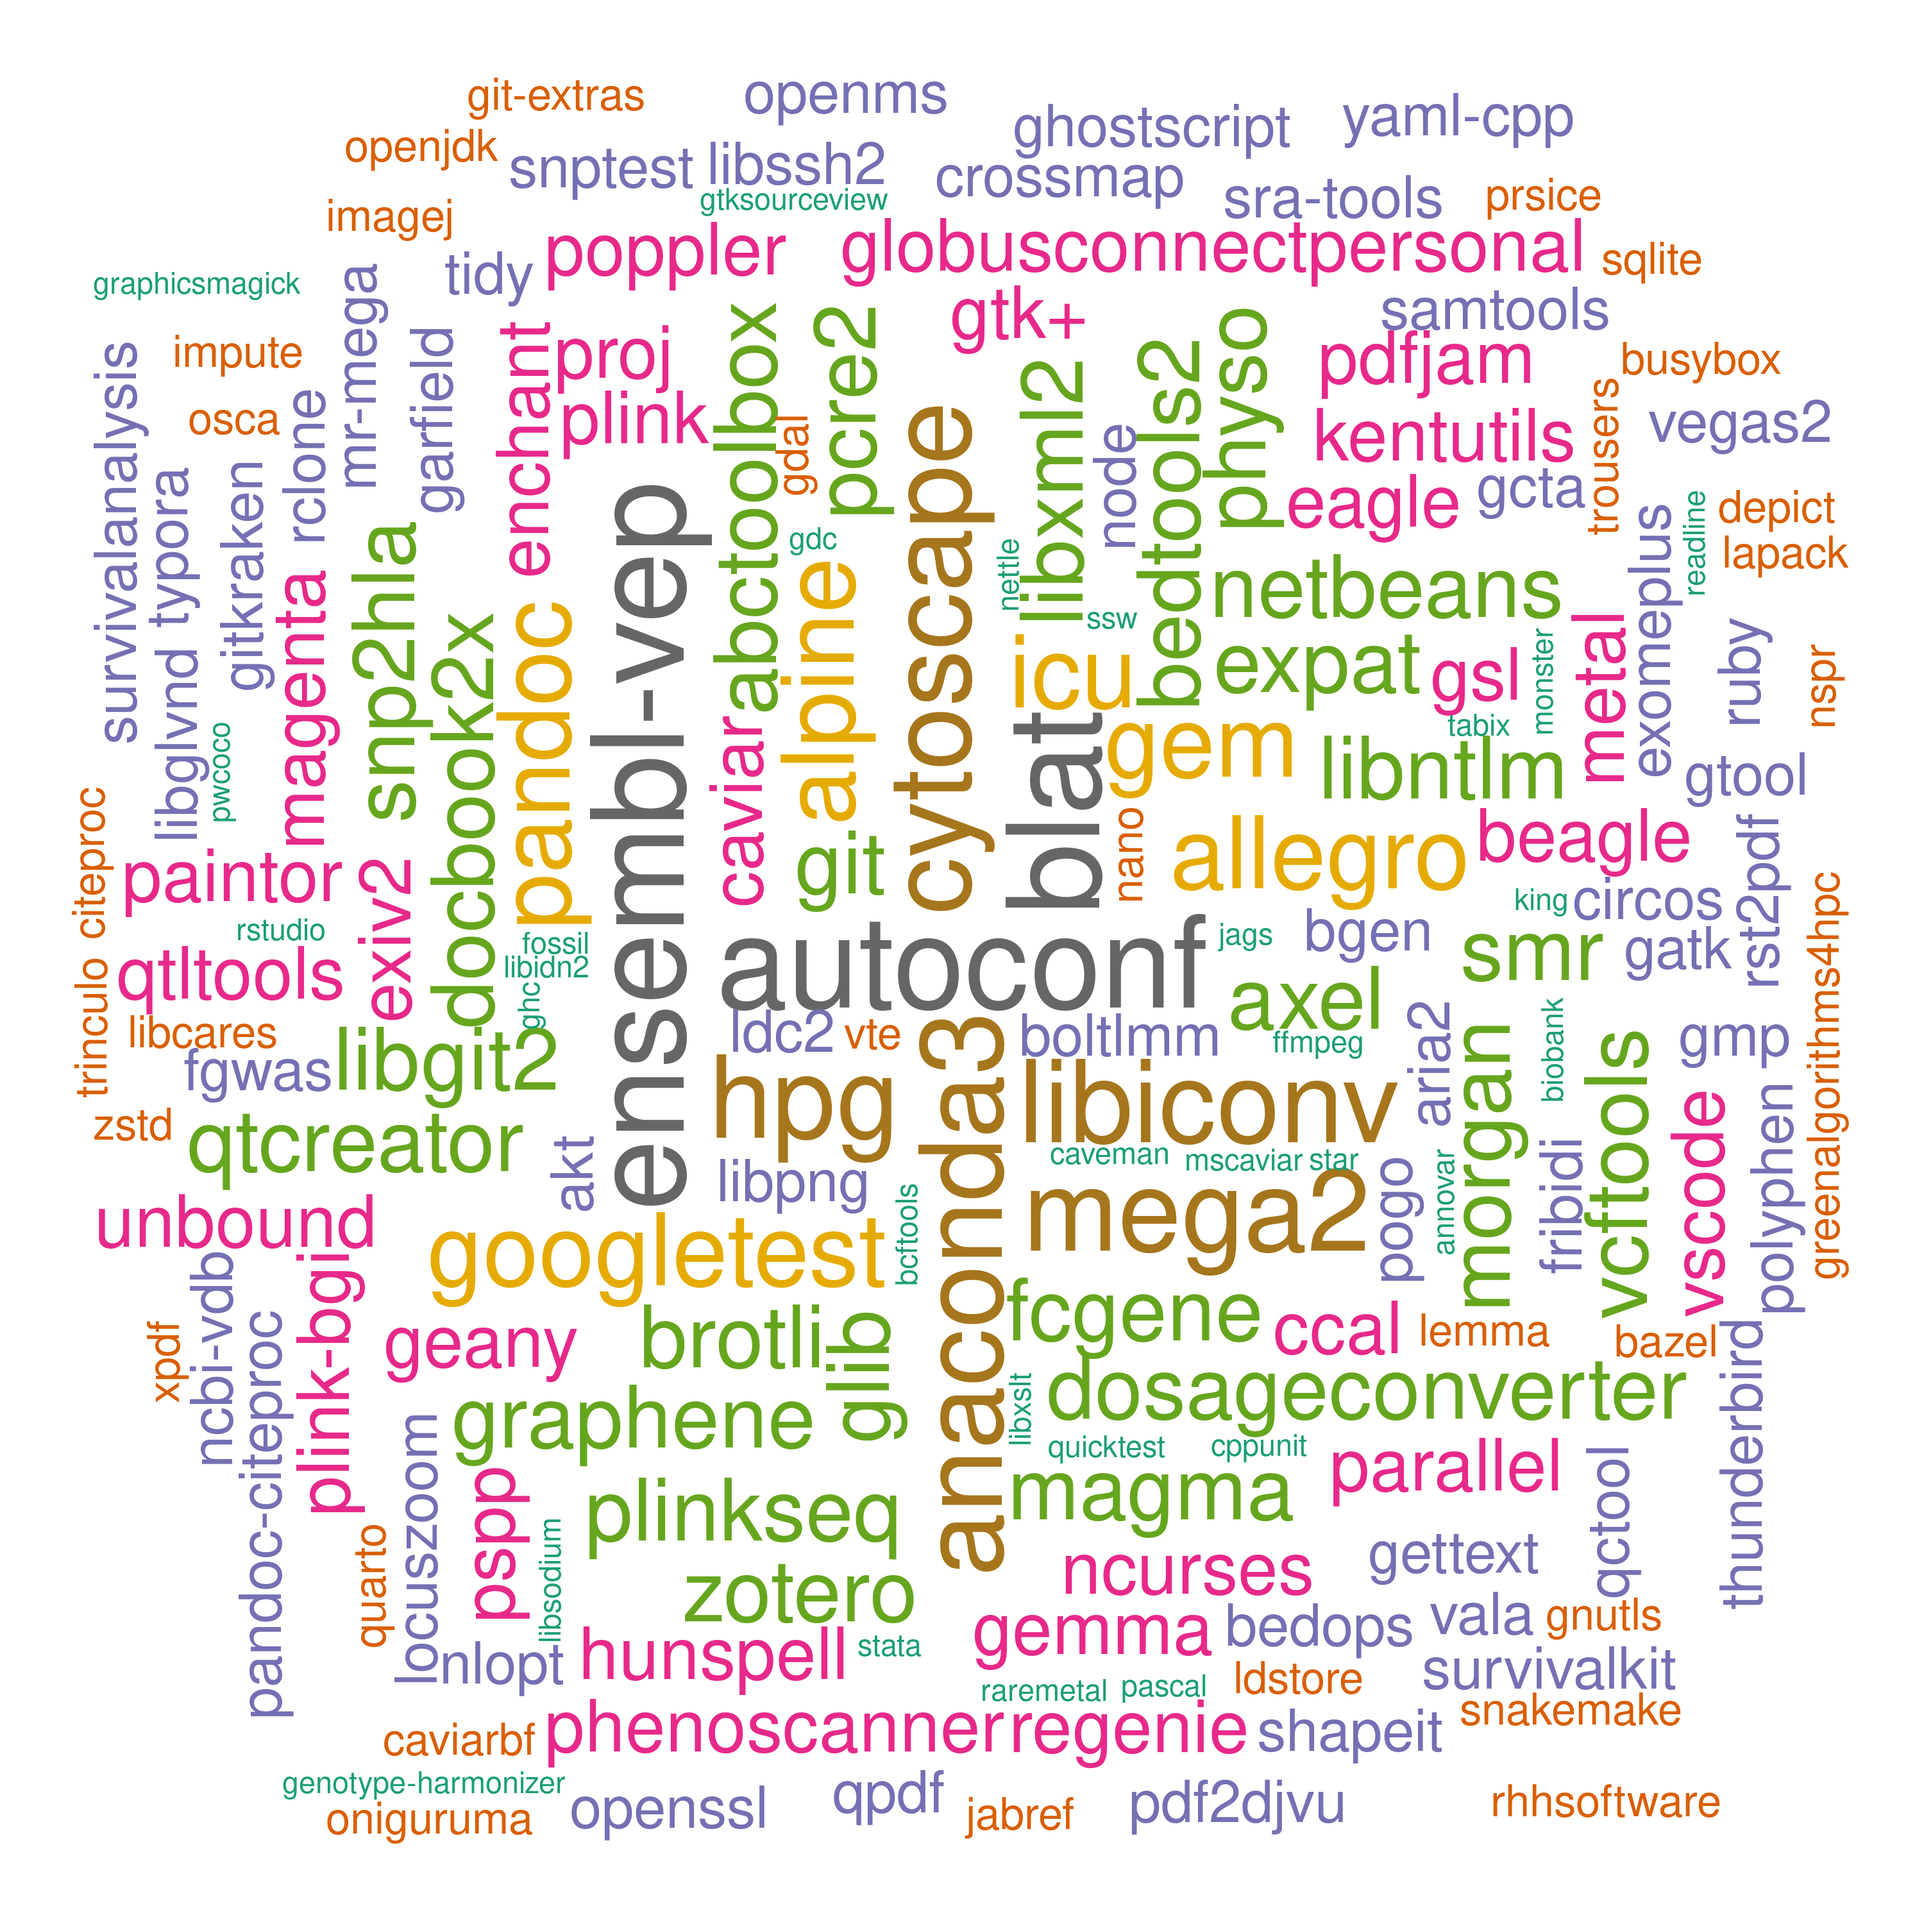
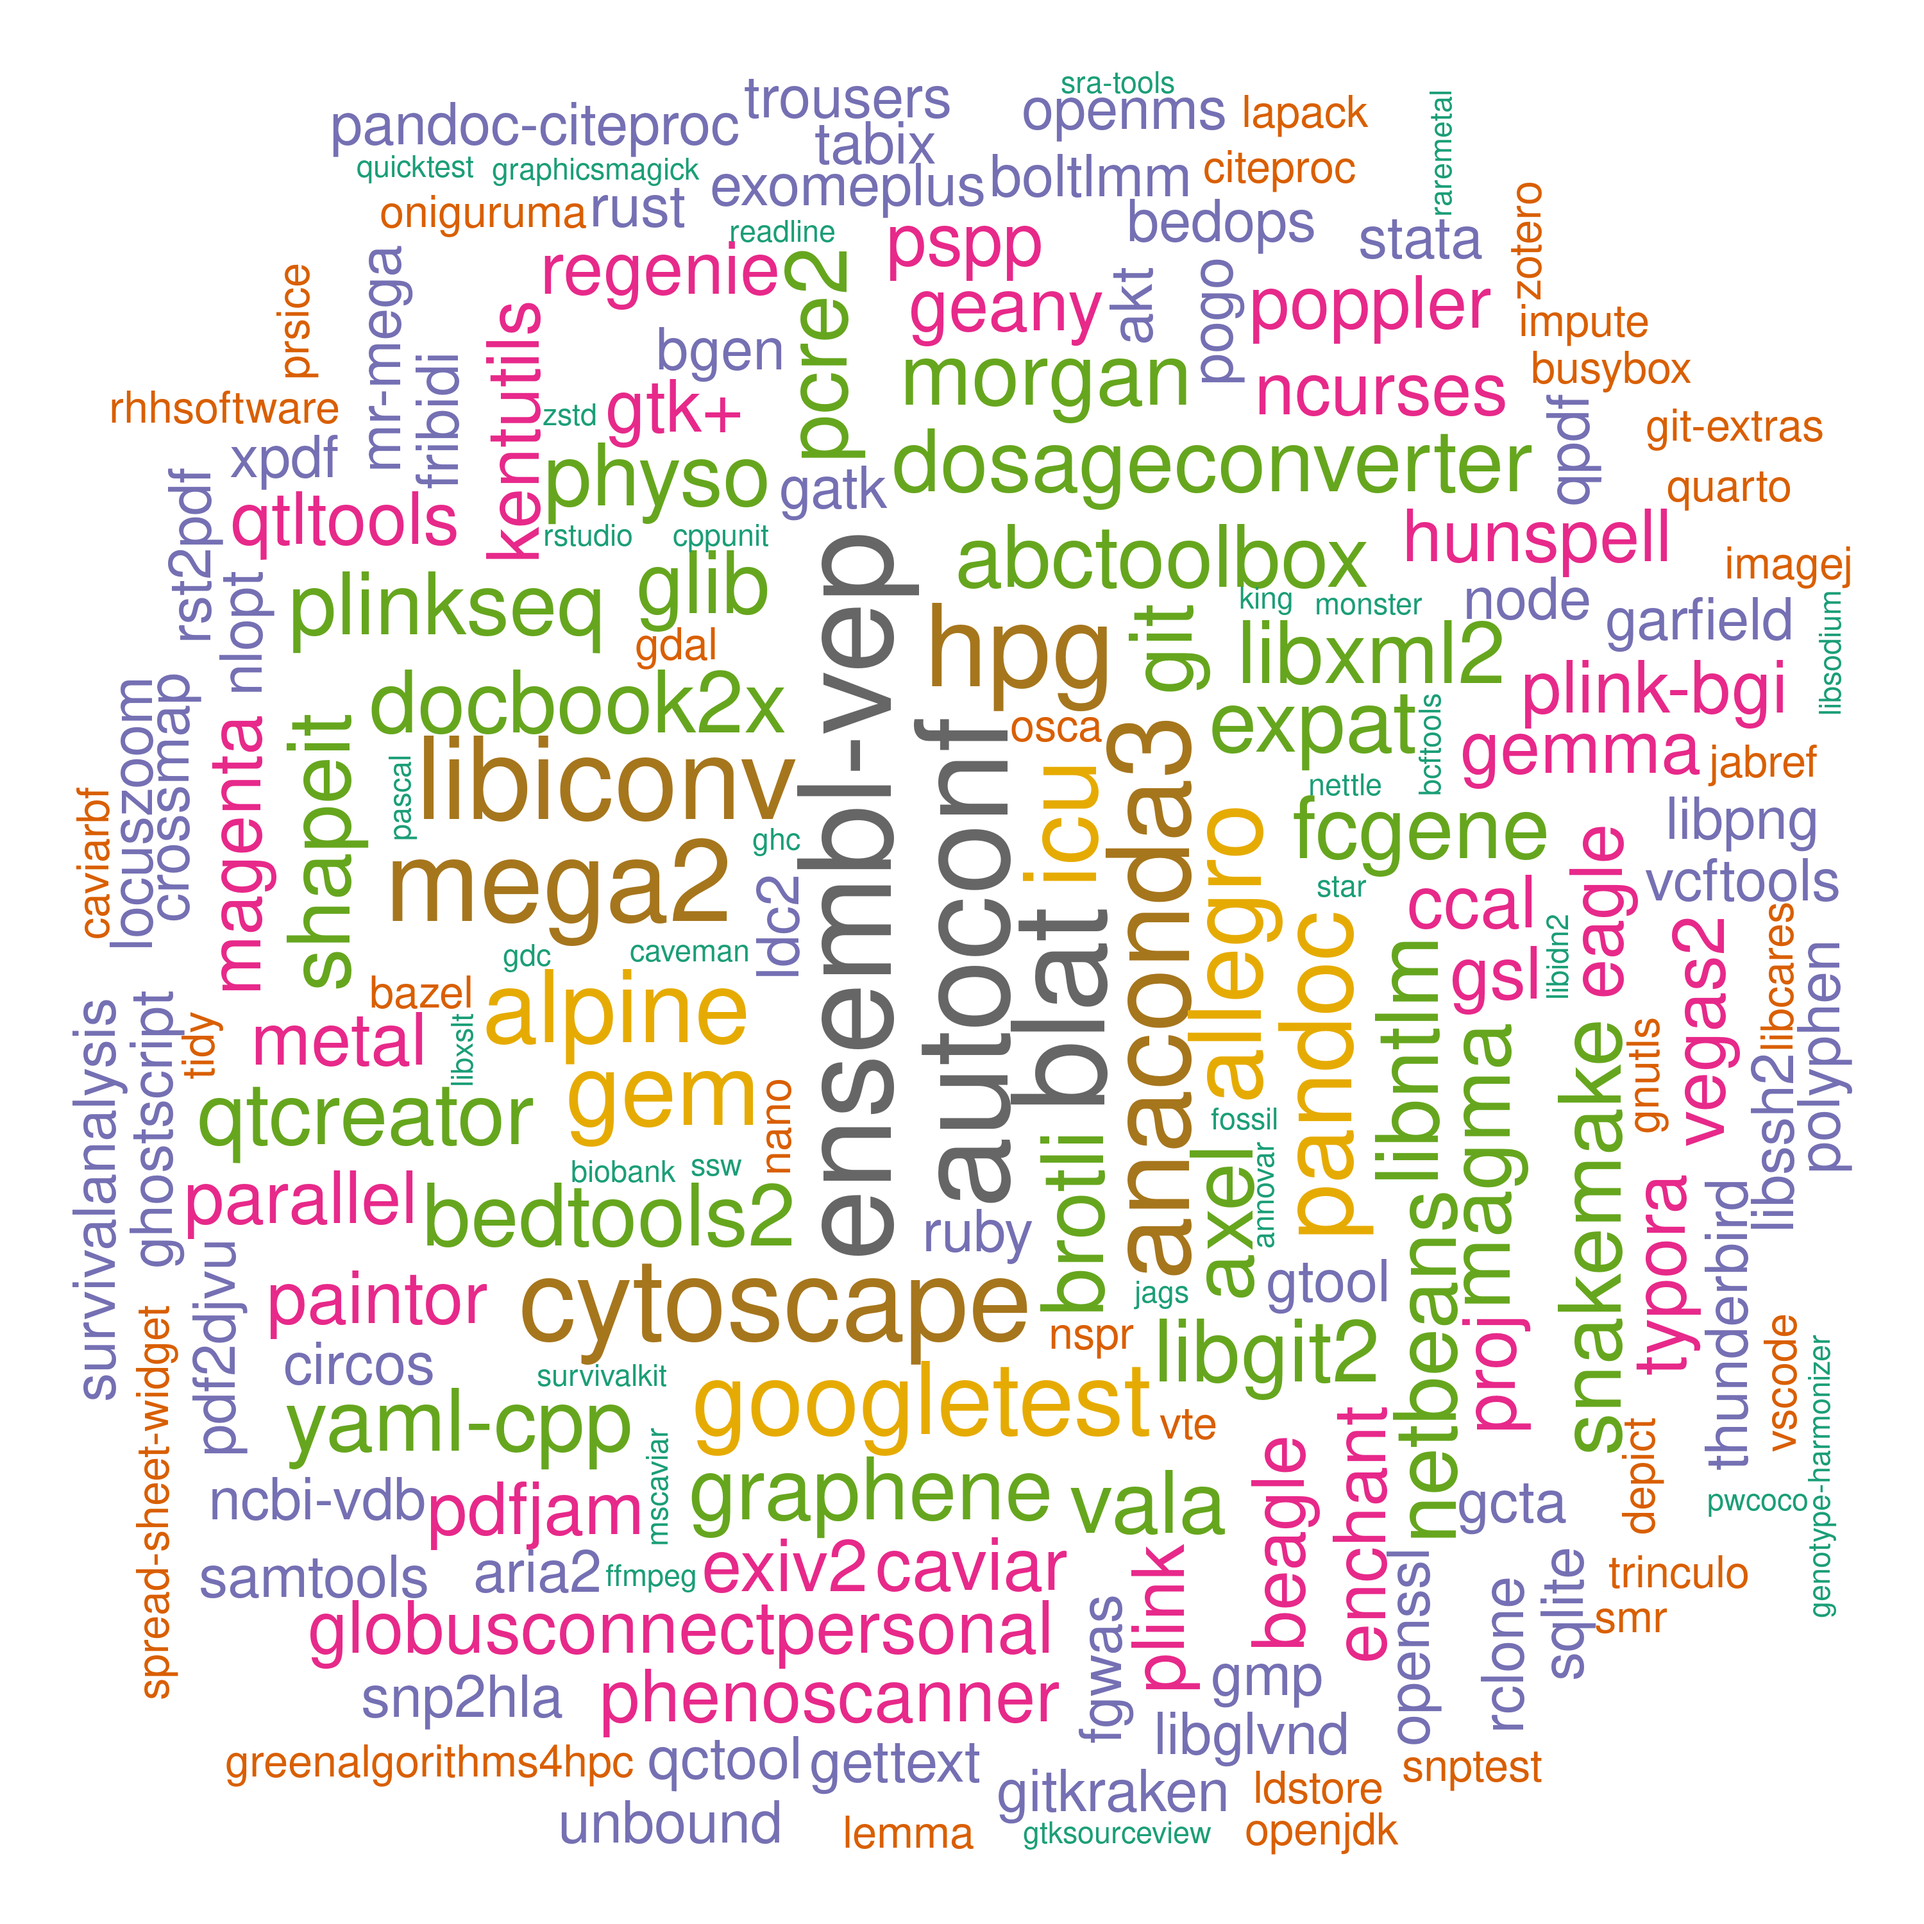
./

Changed region(s): [[0.031, 0.031, 0.961, 0.961]]

diff --git a/systems/files/ceuadmin.md b/systems/files/ceuadmin.md
@@ -58,17 +58,17 @@ The current list is as follows[^ls],
 [151] "quarto"                "quicktest"             "R"
 [154] "raremetal"             "rclone"                "readline"
 [157] "regenie"               "RHHsoftware"           "rst2pdf"
-[160] "rstudio"               "ruby"                  "samtools"
-[163] "shapeit"               "SMR"                   "snakemake"
-[166] "SNP2HLA"               "snptest"               "spread-sheet-widget"
-[169] "sqlite"                "sra-tools"             "ssw"
-[172] "STAR"                  "stata"                 "SurvivalAnalysis"
-[175] "SurvivalKit"           "tabix"                 "thunderbird"
-[178] "tidy"                  "trinculo"              "trousers"
-[181] "Typora"                "unbound"               "vala"
-[184] "vcftools"              "VEGAS2"                "VSCode"
-[187] "vte"                   "xpdf"                  "yaml-cpp"
-[190] "Zotero"                "zstd"
+[160] "rstudio"               "ruby"                  "rust"
+[163] "samtools"              "shapeit"               "SMR"
+[166] "snakemake"             "SNP2HLA"               "snptest"
+[169] "spread-sheet-widget"   "sqlite"                "sra-tools"
+[172] "ssw"                   "STAR"                  "stata"
+[175] "SurvivalAnalysis"      "SurvivalKit"           "tabix"
+[178] "thunderbird"           "tidy"                  "trinculo"
+[181] "trousers"              "Typora"                "unbound"
+[184] "vala"                  "vcftools"              "VEGAS2"
+[187] "VSCode"                "vte"                   "xpdf"
+[190] "yaml-cpp"              "Zotero"                "zstd"
 ```
 
 Most should be available to all CSD3 users in the whole campus, e.g., for pspp, a brief description of a module is available with
@@ -265,8 +265,8 @@ They are ordered chronologically.
 | 2023-04-02  | regenie/3.2.5.3                  | Genetics             |
 | 2023-04-04  | PWCoCo/1.0                       | Genetics             |
 | 2023-04-05  | PhySO/1.0-dev0                   | Generic              |
-| !2023-04-21 | ImageJ/1.53t                     | Generic              |
-| !2023-04-25 | busybox/1.35.0                   | Generic              |
+| 2023-04-21  | ImageJ/1.53t                     | Generic              |
+| 2023-04-25  | busybox/1.35.0                   | Generic              |
 | 2023-06-02  | regenie/3.2.7                    | Genetics[^regenie]   |
 | 2023-06-05  | gsl/2.7.1                        | Generic              |
 | 2023-06-06  | allegre/2.0f                     | Genetics             |
@@ -274,7 +274,7 @@ They are ordered chronologically.
 | 2023-06-16  | globusconnectpersonal/3.2.2      | Generic              |
 | 2023-06-19  | plink-ng/2.00a3.3                | Genetics             |
 | 2023-06-26  | RHHsoftware/0.1                  | Genetics             |
-| !2023-07-19 | pdfjam/3.06                      | Generic              |
+| 2023-07-19  | pdfjam/3.06                      | Generic              |
 | 2023-07-22  | rstudio/2023.06.1+524            | Generic              |
 | 2023-07-28  | PWCoCo/1.1                       | Genetics             |
 | 2023-08-02  | regenie/3.2.9                    | Genetics             |
@@ -283,8 +283,8 @@ They are ordered chronologically.
 | 2023-08-06  | finemap/1.4.2                    | Genetics             |
 | 2023-08-10  | GreenAlgorithmsforHPC/0.3        | Generic              |
 | 2023-08-12  | xpdf/4.04                        | Generic[^xpdf]       |
-| !2023-08-22 | thunderbird/115.1.1              | Generic              |
-| !2023-08-24 | pdfjam/3.07                      | Generic              |
+| 2023-08-22  | thunderbird/115.1.1              | Generic              |
+| 2023-08-24  | pdfjam/3.07                      | Generic              |
 | 2023-09-03  | 2.0.0-pre1ge32bec                | Genetic[^pspp]       |
 | 2023-09-03  | spead-sheet-widget               | Generic              |
 | 2023-09-27  | ncbi-vdb/3.0.8                   | Genetics[^ncbi-vdb]  |
@@ -311,6 +311,7 @@ They are ordered chronologically.
 | 2023-11-23  | SciKit-LLM & OpenAI API          | Genetic              |
 | 2023-11-24  | ldsc/1.0.1                       | Genetics             |
 | 2023-11-30  | gdc/1.6.1-1.0.0                  | Genetics[^gdc]       |
+| 2023-12-13  | rust/1.74.1                      | Generic              |
 
 \* CEU or approved users only.
 

diff --git a/systems/ceuadmin.md b/systems/ceuadmin.md
@@ -8,7 +8,7 @@ The CEU software repository is here, **/usr/local/Cluster-Apps/ceuadmin/**.
 
 ![ceuadmin](ceuadmin.png)
 
-A word cloud diagram is generated from the following R script, noting that the importance of software is purely random according to $$Poisson(N,\lambda)$$ where $$N=191$$, $$\lambda=3$$.
+A word cloud diagram is generated from the following R script, noting that the importance of software is purely random according to $$Poisson(N,\lambda)$$ where $$N=192$$, $$\lambda=3$$.
 
 ```r
 library(RColorBrewer)
@@ -87,17 +87,17 @@ The current list is as follows,
 [151] "quarto"                "quicktest"             "R"
 [154] "raremetal"             "rclone"                "readline"
 [157] "regenie"               "RHHsoftware"           "rst2pdf"
-[160] "rstudio"               "ruby"                  "samtools"
-[163] "shapeit"               "SMR"                   "snakemake"
-[166] "SNP2HLA"               "snptest"               "spread-sheet-widget"
-[169] "sqlite"                "sra-tools"             "ssw"
-[172] "STAR"                  "stata"                 "SurvivalAnalysis"
-[175] "SurvivalKit"           "tabix"                 "thunderbird"
-[178] "tidy"                  "trinculo"              "trousers"
-[181] "Typora"                "unbound"               "vala"
-[184] "vcftools"              "VEGAS2"                "VSCode"
-[187] "vte"                   "xpdf"                  "yaml-cpp"
-[190] "Zotero"                "zstd"
+[160] "rstudio"               "ruby"                  "rust"
+[163] "samtools"              "shapeit"               "SMR"
+[166] "snakemake"             "SNP2HLA"               "snptest"
+[169] "spread-sheet-widget"   "sqlite"                "sra-tools"
+[172] "ssw"                   "STAR"                  "stata"
+[175] "SurvivalAnalysis"      "SurvivalKit"           "tabix"
+[178] "thunderbird"           "tidy"                  "trinculo"
+[181] "trousers"              "Typora"                "unbound"
+[184] "vala"                  "vcftools"              "VEGAS2"
+[187] "VSCode"                "vte"                   "xpdf"
+[190] "yaml-cpp"              "Zotero"                "zstd"
 ```
 
 These are wrapped up as :star::star::star: **[modules](https://modules.readthedocs.io/en/latest/index.html)** :star::star::star:.

diff --git a/applications/Rust.md b/applications/Rust.md
@@ -1,0 +1,25 @@
+---
+sort: 46
+---
+
+# Rust
+
+## module
+
+```bash
+module load ceuadmin/rust
+rustc --version
+```
+
+which gives `rustc 1.74.1 (a28077b28 2023-12-04)`.
+
+## Installation
+
+```bash
+export CARGO_HOME=$CEUADMIN/rust/1.74.1/cargo
+export RUSTUP_HOME=$CEUADMIN/rust/1.74.1/rustup
+
+curl --proto '=https' --tlsv1.2 -sSf https://sh.rustup.rs | sh -s -- -y
+
+rustup default stable
+```

diff --git a/systems/software.md b/systems/software.md
@@ -359,9 +359,16 @@ Template-Rcpp, <https://github.com/stsds/Template-Rcpp> (LinkedIn [post](https:/
 
 ## ruby
 
-```
+```bash
 module load ceuadmin/ruby
 ruby --version
+```
+
+## Rust
+
+```bash
+module load ceuadmin/rust
+rustc --version
 ```
 
 ## SLURM

diff --git a/applications/VSCode.md b/applications/VSCode.md
@@ -1,5 +1,5 @@
 ---
-sort: 54
+sort: 55
 ---
 
 # Visual Studio code

diff --git a/applications/SurvivalGWAS_SV.md b/applications/SurvivalGWAS_SV.md
@@ -1,5 +1,5 @@
 ---
-sort: 51
+sort: 52
 ---
 
 # SurvivalGWAS_SV

diff --git a/applications/sra-tools.md b/applications/sra-tools.md
@@ -1,5 +1,5 @@
 ---
-sort: 50
+sort: 51
 ---
 
 # sra-tools

diff --git a/applications/SNPTEST.md b/applications/SNPTEST.md
@@ -1,5 +1,5 @@
 ---
-sort: 49
+sort: 50
 ---
 
 # SNPTEST

diff --git a/applications/shapeit.md b/applications/shapeit.md
@@ -1,5 +1,5 @@
 ---
-sort: 46
+sort: 47
 ---
 
 # shapeit

diff --git a/applications/snipar.md b/applications/snipar.md
@@ -1,5 +1,5 @@
 ---
-sort: 48
+sort: 49
 ---
 
 # snipar

diff --git a/applications/tabix.md b/applications/tabix.md
@@ -1,5 +1,5 @@
 ---
-sort: 52
+sort: 53
 ---
 
 # tabix

diff --git a/applications/SMR.md b/applications/SMR.md
@@ -1,5 +1,5 @@
 ---
-sort: 47
+sort: 48
 ---
 
 # SMR
